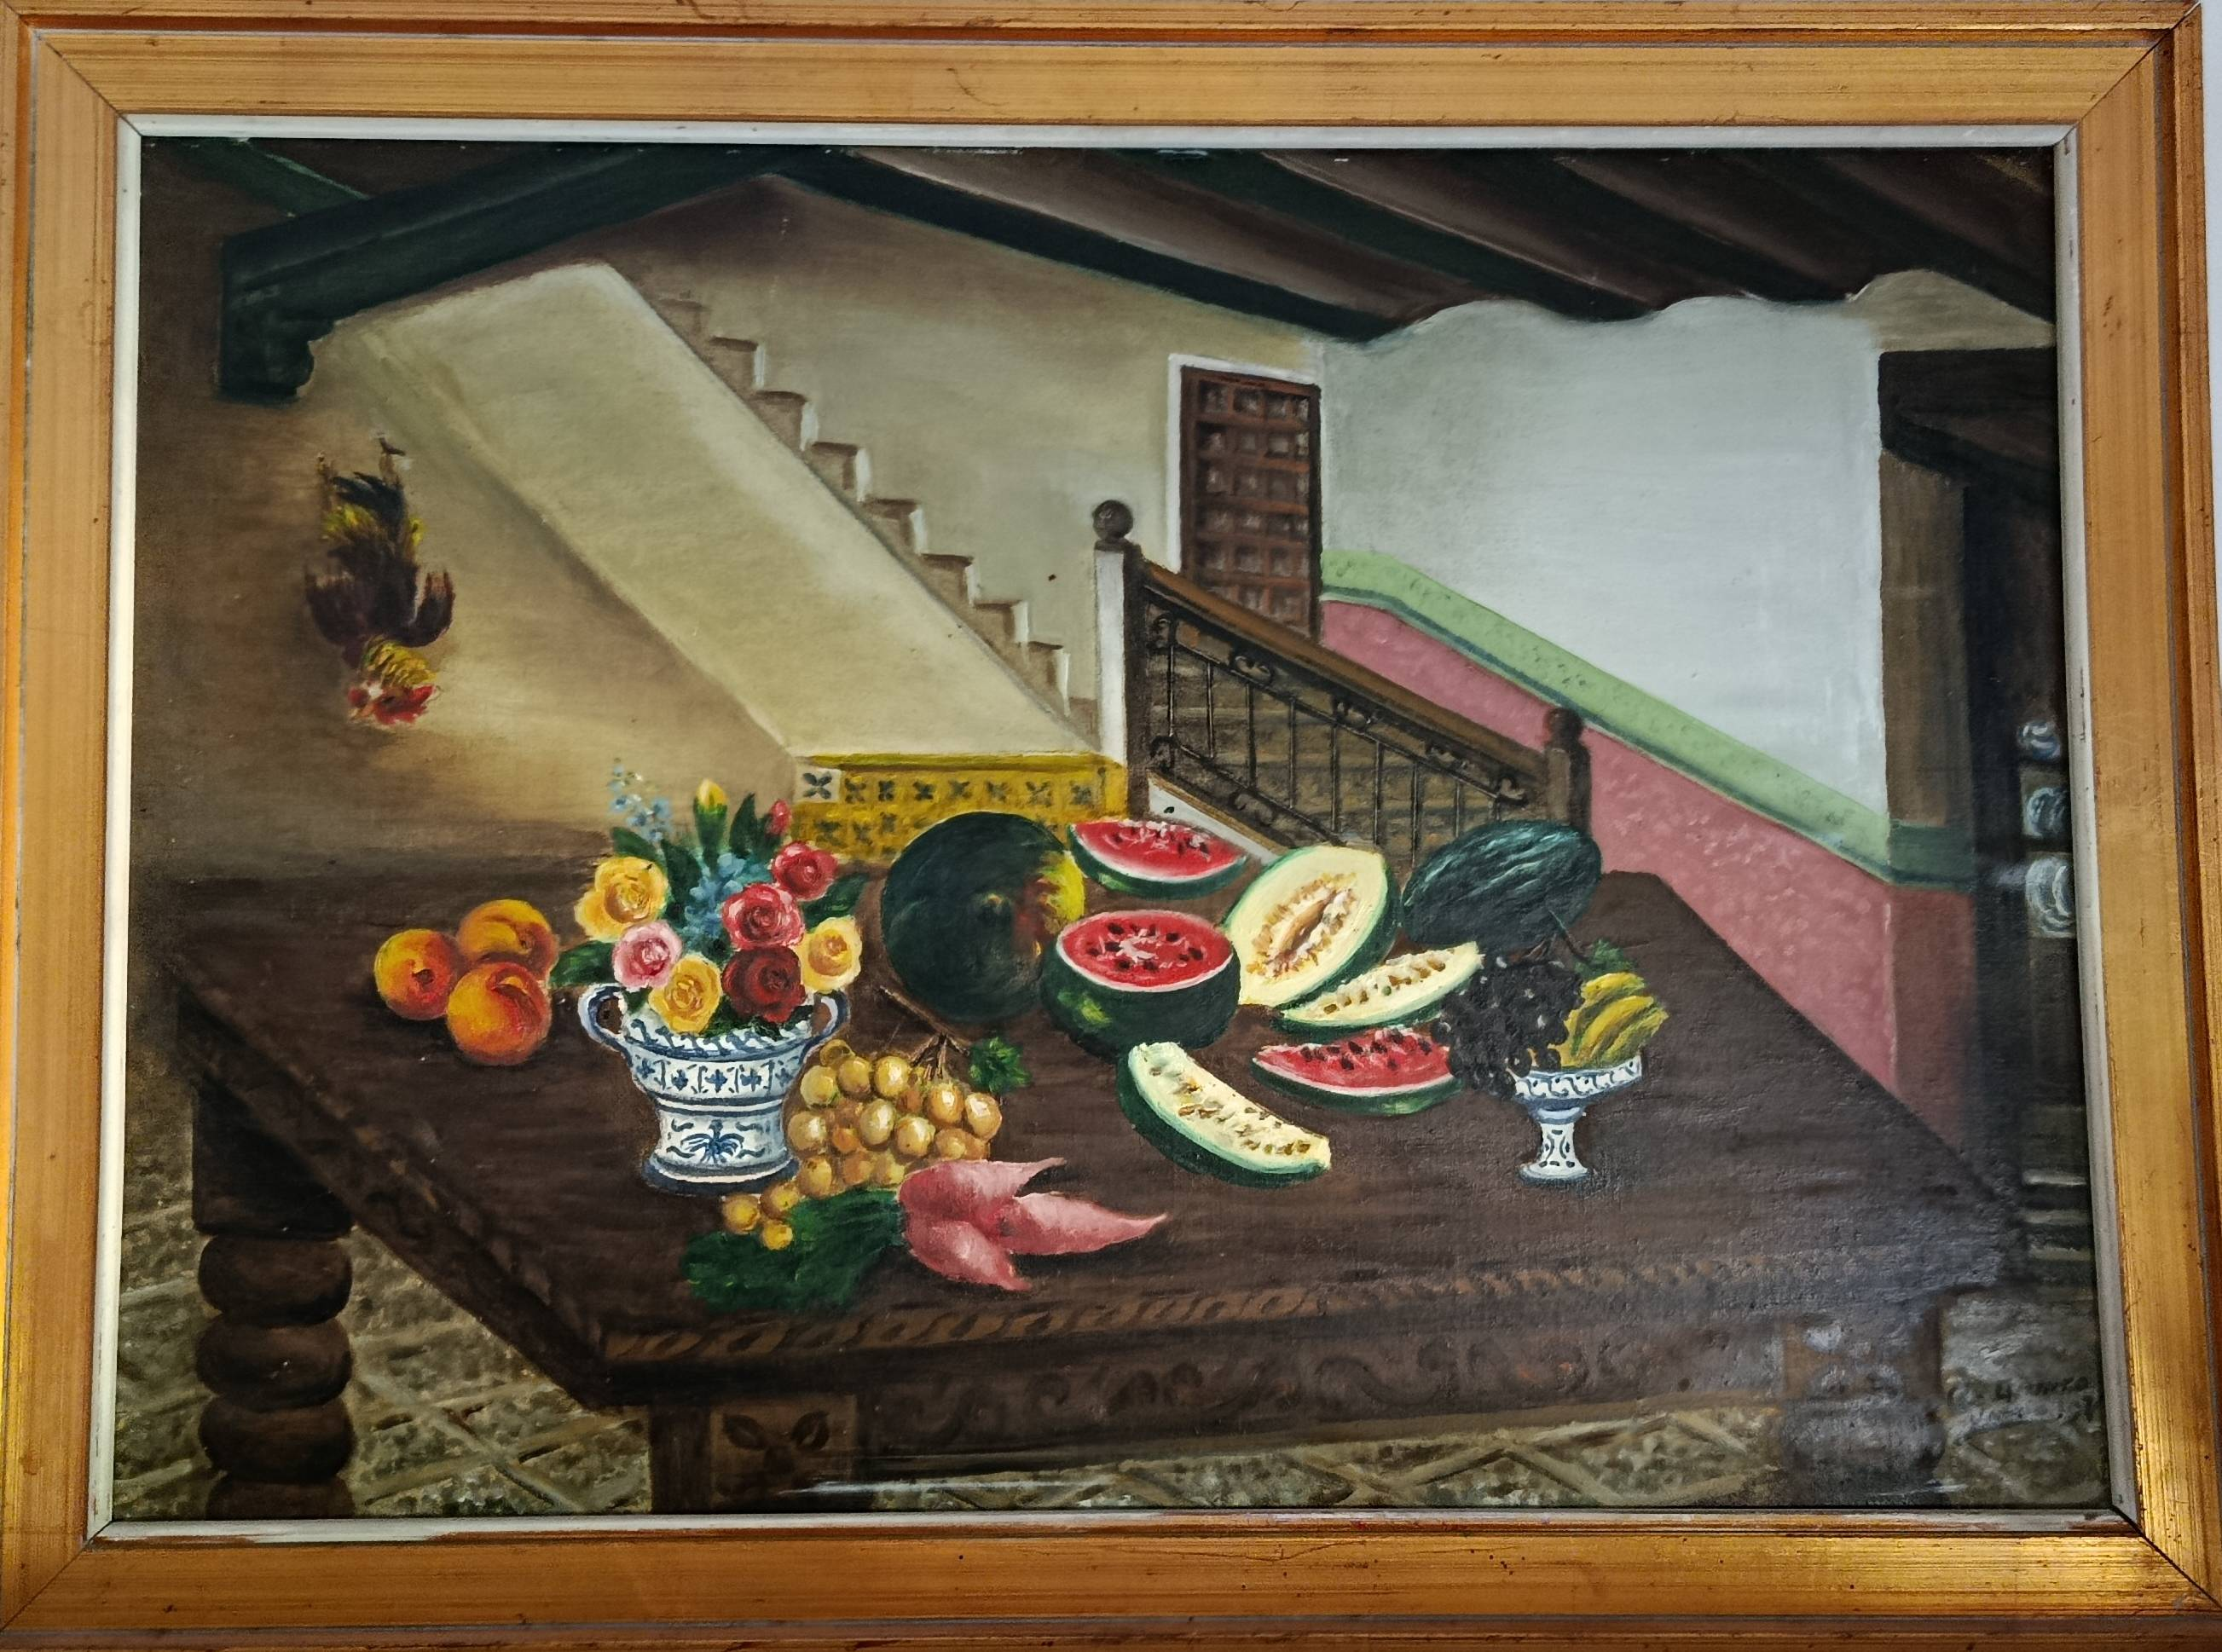
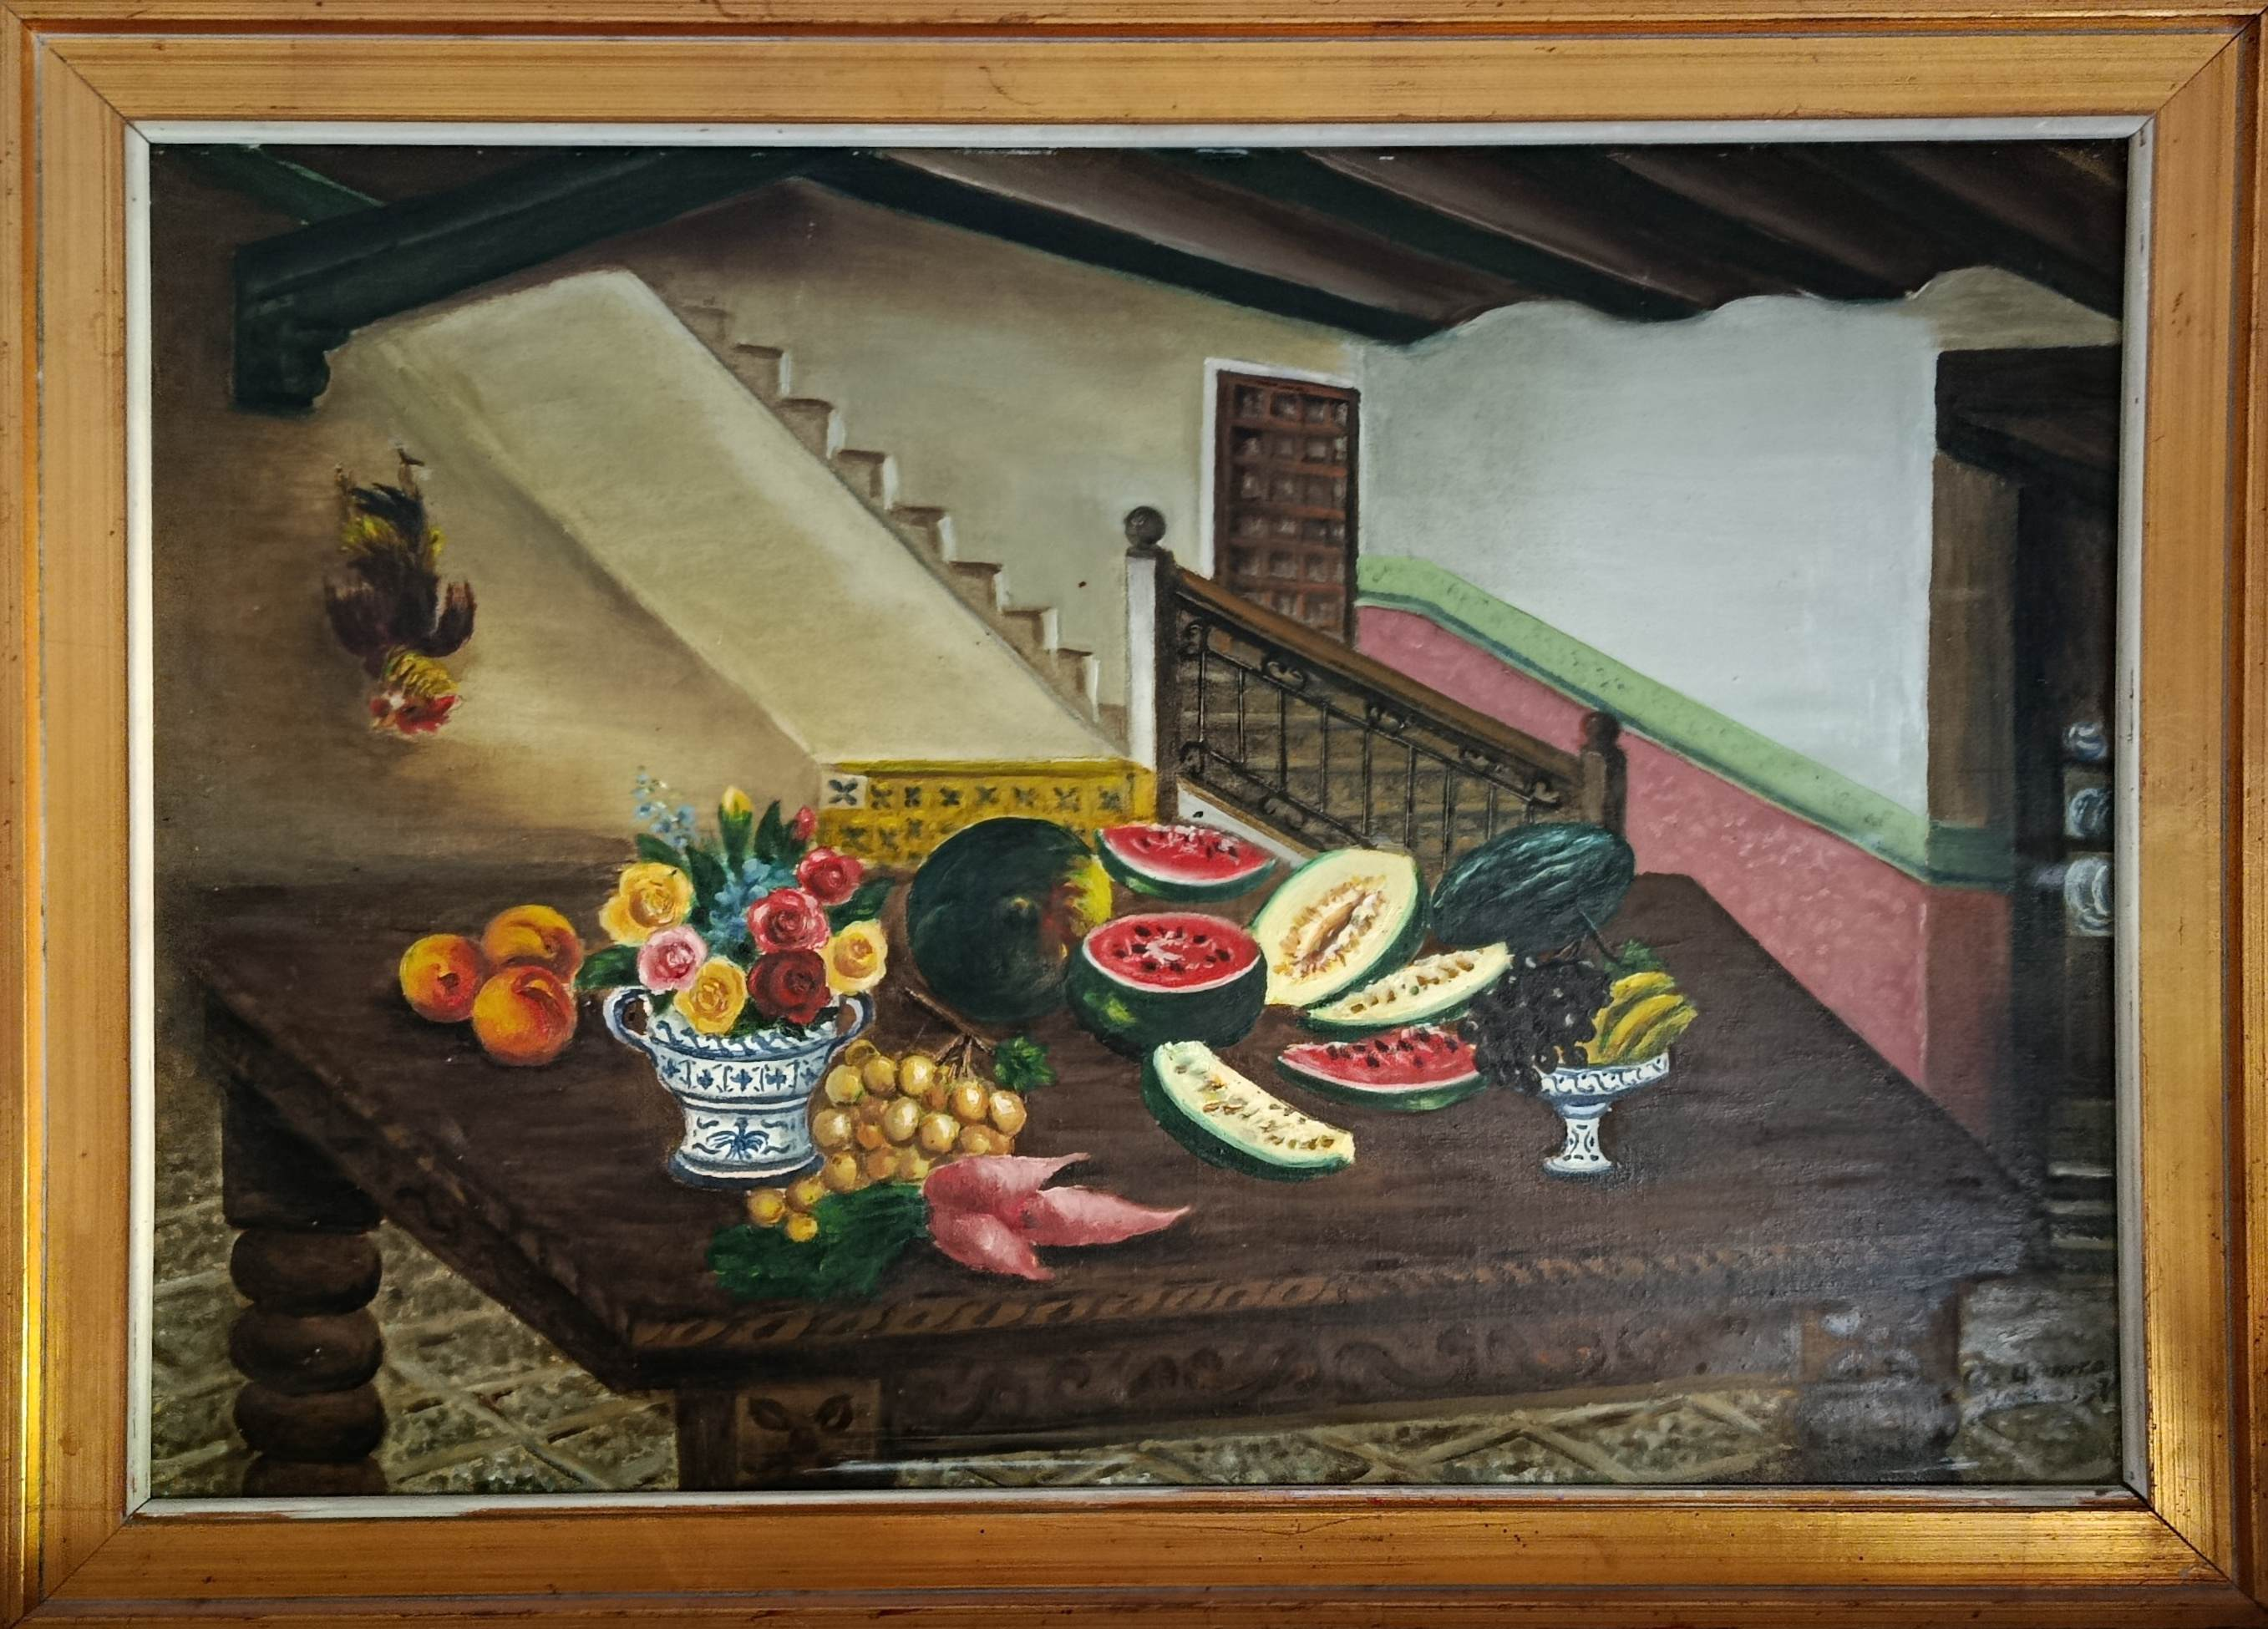
pinturas-cambio

diff --git a/assets/css/pinturas.css b/assets/css/pinturas.css
@@ -219,3 +219,17 @@ h2 {
     max-height: 300px !important;    /* Cambia este número para subir/bajar y jugar con la alineación */
     margin: 0 auto !important;       /* SOLUCIÓN: Centra la imagen horizontalmente dentro del paspartú */
 }
+
+/* EFECTO RELIEVE GALERÍA: Sombra real pegada al marco de madera */
+.cuadrilla-pinturas .marco-blanco-cuadro img {
+    /* 
+       Forzamos al navegador a rastrear el borde real de la imagen.
+       Genera un relieve de 1px y una sombra suave de 10px que viaja con el cuadro.
+    */
+    filter: drop-shadow(0px 0px 1px rgba(0, 0, 0, 0.50)) 
+            drop-shadow(0px 12px 18px rgba(0, 0, 0, 0.60)) !important;
+
+    /* Destruimos las cajas y líneas grises flotantes anteriores */
+    box-shadow: none !important;
+    outline: none !important;
+}